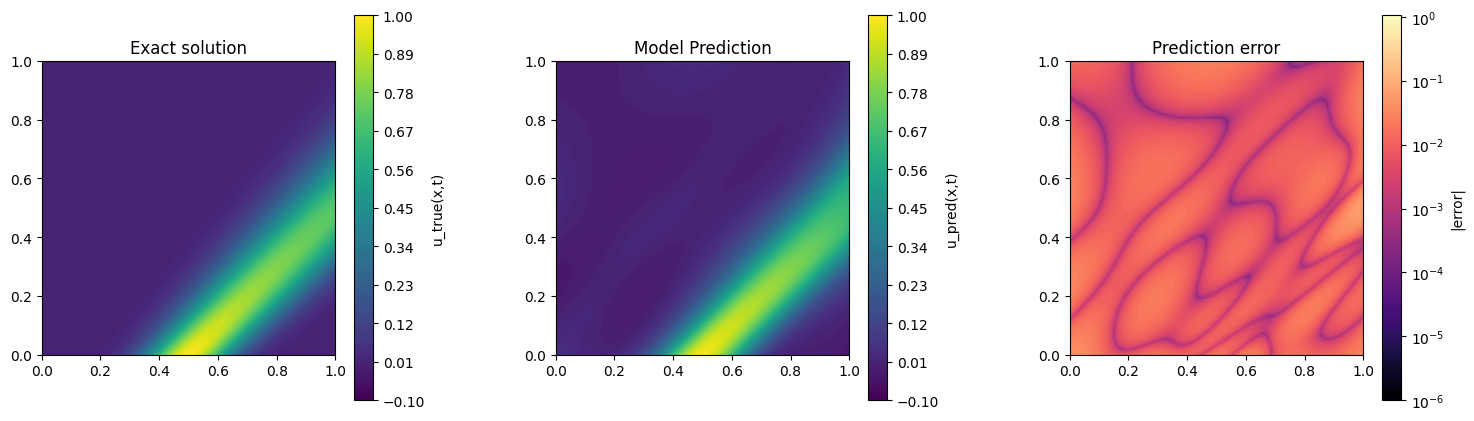
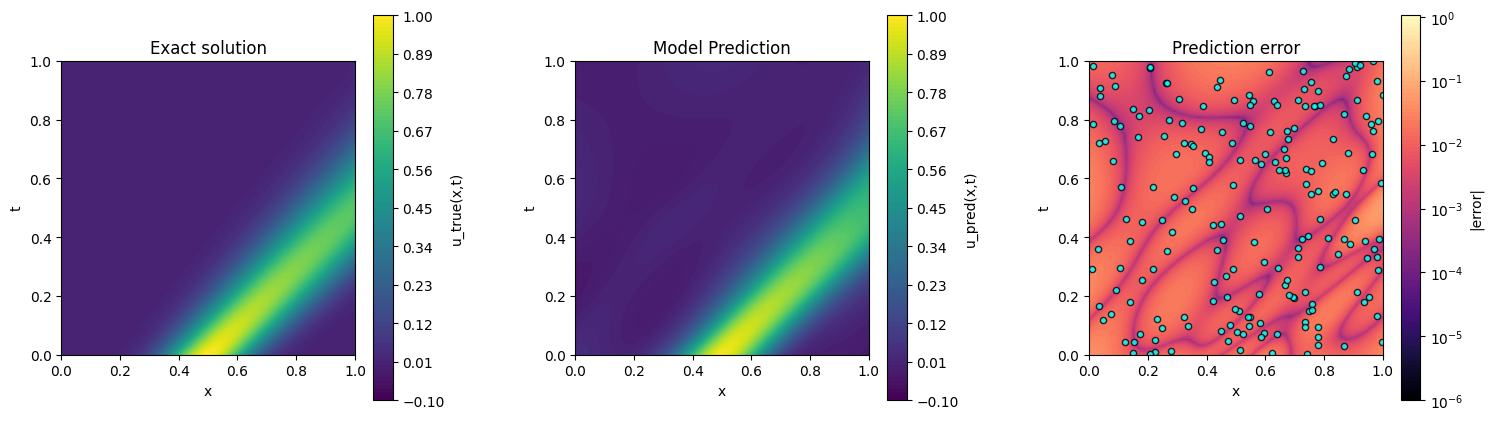
Added PINN project

diff --git a/projects/pinns-vs-data-driven-neural-networks-for-fluid-flow.html b/projects/pinns-vs-data-driven-neural-networks-for-fluid-flow.html
@@ -23,10 +23,30 @@
       </div>
       <div class="tags-wrapper">
         <div class="tags">
-          <p id="tag">Data Visualisation</p>
           <p id="tag">Python</p>
+          <p id="tag">Machine Learning</p>
+          <p id="tag">Physics-Informed Neural Networks</p>
+          <p id="tag">Computational Fluid Dynamics</p>
+          <p id="tag">PDE Modeling</p>
+          <p id="tag">Numerical Methods</p>
+          <p id="tag">Data-Driven Modeling</p>
+          <p id="tag">Scientific Computing</p>
+          <p id="tag">Deep Learning</p>
+          <p id="tag">Data Visualization</p>
         </div>
       </div>
+
+      <!-- <h3>Project Overview</h3> -->
+
+      <p>This project investigates whether incorporating physical laws into neural networks improves prediction accuracy when training data are sparse. I implemented and compared two models for solving a simplified 1D advection-diffusion equation, which describes the transport and diffusion of a scalar quantity such as pollutant concentration in flowing water.</p>
+      
+      <p class="points-heading">Summary</p>
+      <ul class="points">
+        <li>Implemented and compared a standard neural network and a Physics-Informed Neural Network (PINN).</li>
+        <li>Both models attempt to learn solutions to the 1D advection-diffusion equation.</li>
+        <li>Evaluated model accuracy and adherence to the governing physical law.</li>
+        <li>PINNs demonstrated strong adherence to the physical constraints and better generalization with sparse training data, while the standard NN slightly outperformed on the denser dataset but showed potential overfitting.</li>
+      </ul>
 
       <h3>Objective</h3>
         <p>The objective of this project is to investigate whether incorporating physical constraints improves prediction accuracy when training data is sparse. I investigated this because it was close to a realistic scenario where we might be looking at such as sewer flow with a limited number of sensors.</p>
@@ -39,8 +59,8 @@
 = D \frac{\partial^2 u}{\partial x^2}
             \]
         </h3>
-        <p>Meaning of each term:</p>
-        <ul>
+        <p class="points-heading">Meaning of each term:</p>
+        <ul class="points">
             <li><strong>\(u(x,t)\)</strong>: transported scalar field (e.g., pollutant concentration, chlorine level, temperature)</li>
             <li><strong>\(c\)</strong>: advection velocity (flow speed of the water)</li>
             <li><strong>\(D\)</strong>: diffusion coefficient (mixing/dispersion)</li>
@@ -66,8 +86,8 @@
           <p>where \( \lambda \) controls the weight of the physics constraint.</p>
 
       <h3>Initial and Boundary Conditions</h3>
-        <p>Initial condition: Gaussian pulse:</p>
-        <p>\(  u(x, 0) = e^{-50(x-0.5)^2} \)</p>
+        <p>Initial condition - Gaussian pulse:</p>
+        <p>\[  u(x, 0) = e^{-50(x-0.5)^2} \]</p>
         <p>This can represent a localised pollutant spill at the centre of the river, diffusion spreads the plume, and advection moves it downstream. 
 
 The advantages of this are: that it is a smooth function, produces easily interpretable results, widely used in transport modelling.</p>
@@ -82,70 +102,98 @@ The advantages of this are: that it is a smooth function, produces easily interp
         <p>
           Six figures are used to evaluate the performance of the standard neural network (NN) and the
           physics-informed neural network (PINN). The comparison focuses on prediction accuracy,
-          training behaviour, and satisfaction of the governing advection–diffusion equation.
+          training behaviour, and satisfaction of the governing advection-diffusion equation.
         </p>
         
         <h4>Prediction Accuracy</h4>
-        
-
         <div class="results-images">
-          <img class="three_figure" src="../assets/images/nn_evaluation.png" alt="Figure 1">
-          <img class="three_figure" src="../assets/images/pinn_evaluation.png" alt="Figure 2">
+            <figure>
+                <img class="three_figure" src="../assets/images/nn_evaluation.png" alt="NN prediction vs exact solution">
+                <figcaption>Figure 1: Standard Neural Network prediction and error</figcaption>
+            </figure>
+            <figure>
+                <img class="three_figure" src="../assets/images/pinn_evaluation.png" alt="PINN prediction vs exact solution">
+                <figcaption>Figure 2: Physics-Informed Neural Network prediction and error</figcaption>
+            </figure>
         </div>
         
         <p>
-          Figures 1 and 2 compare the predictive performance of the standard neural network (NN) and the
-          physics-informed neural network (PINN). Figure 1 presents the exact analytical solution alongside
-          the NN prediction and its corresponding error. While the NN captures the overall structure of the
-          transported Gaussian pulse, noticeable deviations from the exact solution appear, particularly in
-          regions where training data are sparse. Figure 2 shows the same comparison for the PINN, including
-          the exact solution, the PINN prediction, and the resulting error field. The PINN more accurately
-          reproduces the transported and diffused pulse and exhibits substantially smaller prediction errors
-          across the spatial domain.
+          Figures 1 and 2 compare the predictive performance of the standard neural network (NN) and the physics-informed neural network (PINN) with the input data for each model overlayed on the Predicted error plot. 
+          Figure 1 shows the NN prediction alongside the exact analytical solution and its corresponding error. Because the NN was trained on more data points, 
+          it achieves a slightly lower relative L2 error on the test grid (\(4.104 \times 10^{-2}\)) compared with the PINN \((5.860 \times 10^{-2}\)). However, the NN’s predictions 
+          deviate noticeably from the exact solution in regions with sparse data, suggesting potential overfitting to the provided dataset. Figure 2 shows the 
+          PINN results, which, although slightly higher in relative L2 error, more accurately reproduce the transported Gaussian pulse across the full spatial 
+          domain and maintain consistency with the governing advection-diffusion equation.
         </p>
         
         <h4>Training Dynamics</h4>
         <div class="results-images">
-          <img class="two_figure" src="../assets/images/nn_losses_evaluation.png" alt="">
-          <img class="two_figure" src="../assets/images/pinn_losses_evaluation.png" alt="">
+            <figure>
+                <img class="two_figure" src="../assets/images/nn_losses_evaluation.png" alt="NN training loss and prediction error">
+                <figcaption>Figure 3: Training dynamics of the standard neural network</figcaption>
+            </figure>
+            <figure>
+                <img class="two_figure" src="../assets/images/pinn_losses_evaluation.png" alt="PINN training loss and prediction error">
+                <figcaption>Figure 4: Training dynamics of the physics-informed neural network</figcaption>
+            </figure>
         </div>
+
         
         <p>
-          A comparison of the training behaviour highlights clear differences between the two models. 
-          Figure 3 illustrates the training dynamics of the standard neural network, showing the evolution 
-          of the training loss together with the relative prediction error during optimization. Although 
-          the loss decreases gradually, the prediction error remains relatively large throughout training, 
-          indicating limited generalization when the available data are sparse. In contrast, Figure 4 
-          shows the training curves for the physics-informed neural network, including the data loss, 
-          physics residual loss, and prediction error. The inclusion of the physics constraint leads to 
-          more stable convergence and a lower final prediction error compared with the standard neural network.
+          A comparison of the training behaviour highlights differences between the two models. Figure 3 shows the training dynamics of the standard neural network, which was 
+          trained on \(200\) observation points. The NN achieves a slightly lower relative L2 error on the test grid \((4.104 \times 10^{-2}\)) compared with the PINN \((5.8597 \times 10^{-2}\)), but the prediction error 
+          fluctuates more during training and may indicate overfitting to the dense training data. Figure 4 presents the physics-informed neural network, trained on only 
+          \(20\) observation points, including the data loss, physics residual loss, and prediction error. Despite the smaller dataset, the PINN converges more stably and 
+          maintains consistency with the governing PDE, demonstrating better generalization and adherence to physical laws across the domain, even with fewer training points.
         </p>
         
         <h4>PDE Residual Analysis</h4>
-        
         <div class="results-images">
-          <img class="one_figure" src="../assets/images/nn_residual.png" alt="">
-          <img class="one_figure" src="../assets/images/pinn_residual.png" alt="">
+            <figure>
+                <img class="one_figure" src="../assets/images/nn_residual.png" alt="NN PDE residual">
+                <figcaption>Figure 5: PDE residual of the standard neural network</figcaption>
+            </figure>
+            <figure>
+                <img class="one_figure" src="../assets/images/pinn_residual.png" alt="PINN PDE residual">
+                <figcaption>Figure 6: PDE residual of the physics-informed neural network</figcaption>
+            </figure>
         </div>
 
         <p>
-          If we compare the PDE residuals of the two models, clear differences emerge. Figure 5 shows the logarithm of the residual evaluated across the domain for the standard neural network, which produces a relatively large average residual of \(1.43 \times 10^{-1}\). This indicates that the NN solution does not strongly satisfy the governing advection–diffusion equation. In contrast, Figure 6 presents the residual for the physics-informed neural network, which yields a much smaller average residual of \(1.24 \times 10^{-3}\). The substantially lower residual demonstrates that the PINN solution adheres far more closely to the governing physical equation across the domain.
+          Comparing the PDE residuals of the two models highlights substantial differences in physical consistency. Figure 5 shows the logarithm of the residual across the domain for the standard neural 
+          network, which produces a large average PDE residual on the test grid of \(1.4344 \times 10^{-1}\), indicating limited adherence to the governing advection-diffusion equation. In contrast, Figure 6 shows 
+          the physics-informed neural network, which achieves a much smaller average PDE residual of \(1.2427 \times 10^{-3}\) on the test grid. This significantly lower residual demonstrates that the PINN solution 
+          closely satisfies the physical law across the domain, even though it was trained on far fewer observation points.
         </p>
+
+      <h3>Conclusion</h3>
+      <p>
+        This study demonstrates the comparative strengths of standard neural networks (NNs) and physics-informed neural networks (PINNs) for modeling 1D advection-diffusion processes with limited data. While the NN, 
+        trained on 200 observation points, achieves a slightly lower relative L2 error on the test grid \((4.104 \times 10^{-2}\)) compared with the PINN, which was trained on only 20 points \((5.8597 \times 10^{-2}\)), 
+        this improvement appears to result from overfitting to the dense training data rather than true physical generalization. The PINN, despite having fewer training points, more accurately reproduces the Gaussian 
+        pulse across the spatial domain and maintains consistency with the governing advection-diffusion equation.
+      </p>
+
+      <p>
+        Analysis of training dynamics shows that the NN exhibits larger fluctuations in prediction error during optimization, suggesting sensitivity to the specific training set. In contrast, the PINN demonstrates 
+        stable convergence, effectively balancing the data-driven loss with the physics-informed residual. This is further reflected in the PDE residual analysis: the NN produces a large average residual on the 
+        test grid (\(1.4344 \times 10^{-1}\)), indicating weak adherence to the physical law, whereas the PINN achieves a substantially lower residual \(1.2427 \times 10^{-3}\)), confirming strong consistency with the governing 
+        equation even with limited observations.
+      </p>
+
+      <p>
+        Overall, these results highlight the value of incorporating physical constraints into neural network training. PINNs provide robust predictions and respect the underlying PDE, making them particularly suitable 
+        for scenarios with sparse or incomplete data, while standard NNs may perform well on the observed dataset but risk overfitting and reduced generalization beyond the training points. This demonstrates that 
+        physics-informed approaches can improve reliability and interpretability in computational fluid dynamics modeling.
+      </p>
 
       <h3>Tools & Skills</h3>
         <ul>
-            <li>Programming: R</li>
-            <li>Techniques: Monte Carlo Simulation, Importance Sampling, Markov Chains, Random Walks</li>
-            <li>Mathematics: Probability Theory, Stochastic Processes, Numerical Analysis</li>
-            <li>Validation: Kolmogorov-Smirnov Test, Error Metrics</li>
+          <li>Programming: Python</li>
+          <li>Techniques: Standard Neural Networks, Physics-Informed Neural Networks (PINNs)</li>
+          <li>Mathematics: Advection-Diffusion Equation, Gaussian Initial Condition, PDE Residuals</li>
+          <li>Validation: Comparison with exact analytical solution, error analysis, PDE residual evaluation, training loss convergence, prediction accuracy plots</li>
         </ul>
-
-      <p>
-          <a class="view-report-button" href="/assets/pdf/Monte_Carlo_Dissertation.pdf"  target="_blank" rel="noopener noreferrer">
-            View Full Report
-          </a>
-      </p>
-        
     </div>
 
     <footer class="site-footer">

diff --git a/index.html b/index.html
@@ -77,6 +77,30 @@
                     <p id="project-desciption">In my dissertation for my Monte Carlo Simulations module in 3rd year, I explored the application of Monte Carlo simulation methods to solve problems in probability theory, stochastic processes, and numerical analysis, with practical applications like probability distribution sampling, Markov Chains, and solving differential equations.</p>
                 </div>
             </a> 
+
+            <a id="card" href="/projects/pinns-vs-data-driven-neural-networks-for-fluid-flow.html">
+                <div id="project-image">
+                    <img src="/assets/images/pinns-vs-data-driven-neural-networks-for-fluid-flow-thumbnail.png" alt="">
+                </div>
+                <div class="tags-wrapper">
+                    <div class="tags">
+                        <p id="tag">Python</p>
+                        <p id="tag">Machine Learning</p>
+                        <p id="tag">Physics-Informed Neural Networks</p>
+                        <p id="tag">Computational Fluid Dynamics</p>
+                        <p id="tag">PDE Modeling</p>
+                        <p id="tag">Numerical Methods</p>
+                        <p id="tag">Data-Driven Modeling</p>
+                        <p id="tag">Scientific Computing</p>
+                        <p id="tag">Deep Learning</p>
+                        <p id="tag">Data Visualization</p>
+                    </div>
+                </div>
+                <div id="project-text">
+                    <p id="project-name">PINNs vs Data Driven Neural Networks for Fluid Flow</p>
+                    <p id="project-desciption">This project investigates whether incorporating physical laws into neural networks improves prediction accuracy when training data are sparse. I implemented and compared two models for solving a simplified 1D advection-diffusion equation, which describes the transport and diffusion of a scalar quantity such as pollutant concentration in flowing water.</p>
+                </div>
+            </a> 
             
             <a id="card" href="projects/flocking-bird-simulation.html">
                 <div id="project-image">
@@ -141,7 +165,7 @@
 
     <div id="page-section">
     <h1 id="timeline">Timeline</h1>
-    <p id="last_updated">Last Updated: 03/02/2026</p>
+    <p id="last_updated">Last Updated: 09/04/2026</p>
 
         <div class="timeline">
 
@@ -154,6 +178,19 @@
                     <h3>Currently Working on</h3>
                     <p>
                         I am currently investigating whether I can link map configurations to the gameplay of the board game Settlers of Catan. My goal is to train an AI agent to play the game against itself many times, then to analyse the data collected using machine learning methods to link parameters to gameplay. This, if successful, will lead to a map generator which depends on different slider parameters such as aggressiveness, fairness, etc.
+                    </p>
+                </div>
+            </div>
+
+            <div class="date">April 2026</div>
+            <div class="axis">
+                <span class="dot"></span>
+            </div>
+            <div class="card">
+                <div class="card-content">
+                    <h3>Completed PINNs vs Data-Driven Neural Networks for Fluid Flow Project</h3>
+                    <p>
+                        Implemented and compared a standard neural network and a Physics-Informed Neural Network (PINN) for solving a 1D advection-diffusion equation. Evaluated prediction accuracy, PDE residuals, and training dynamics, demonstrating that PINNs can achieve strong adherence to physical laws even with sparse training data, while the standard NN slightly outperformed on the dense training set but showed signs of overfitting.
                     </p>
                 </div>
             </div>

diff --git a/assets/css/project.css b/assets/css/project.css
@@ -39,6 +39,7 @@
 }
 
 .project h3 {
+    margin-top: 2em;
     margin-bottom: 0;
 }
 
@@ -181,24 +182,36 @@
 .three_figure {
     width: 100%;
     height: auto;
-    width: 90%;
-    max-width: 1200px;         /* control figure size */
+    max-width: 1500px;
+}
+
+.three_figure figure {
+    margin: 0;
+    padding: 0;
+    width: 45%;  
 }
 
 .two_figure {
     width: 100%;
     height: auto;
-    width: 45%;
-    min-width: 400px;         /* control figure size */
-    /* add break point to stack them ontop of each other 1600px */
+    max-width: 800px;         /* control figure size */
+}
+
+.two_figure figure {
+    width: 100%;
 }
 
 .one_figure {
-    width: 100%;
     height: auto;
-    width: 45%;
+    width: 100%;
     max-width: 500px;
 }
+
+.one_figure figure {
+    margin: 0;
+    padding: 0;
+}
+
 
 .results-images {
   row-gap: 0px;
@@ -207,4 +220,18 @@
   justify-content: center;   /* center horizontally */
   align-items: center;
   gap: 16px;                 /* spacing between images */
+  margin-bottom: 15px;
+}
+
+.points-heading {
+    font-weight: bold;
+    margin-bottom: 0px;
+}
+
+.points {
+    margin-top: 0px;
+}
+
+h4 {
+    margin-bottom: 0;    
 }

diff --git a/projects/project.html b/projects/project.html
@@ -30,7 +30,6 @@
 
     </div>
 
-    
     <footer class="site-footer">
         <div class="footer-container">
           <div class="footer-about">
